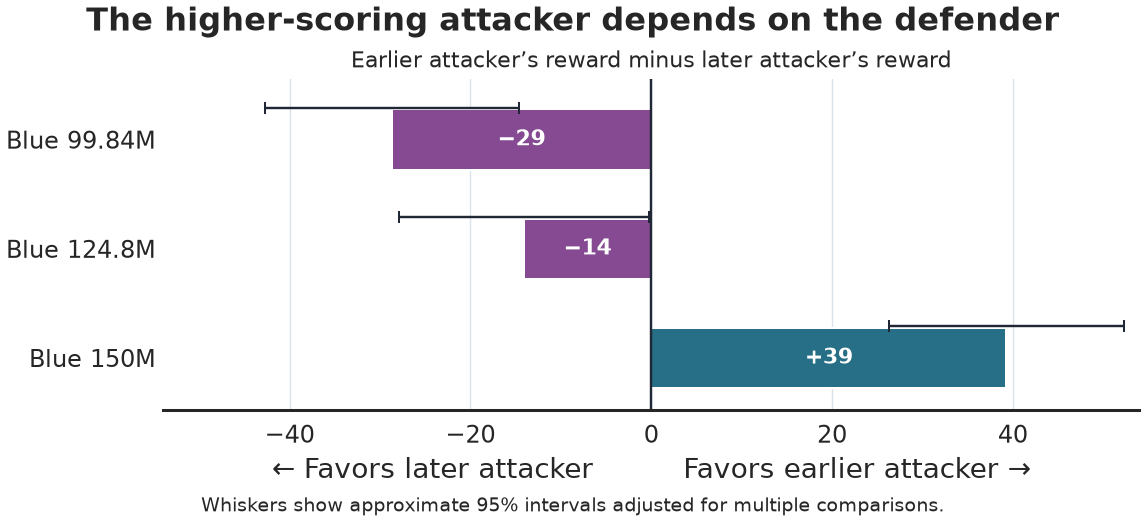
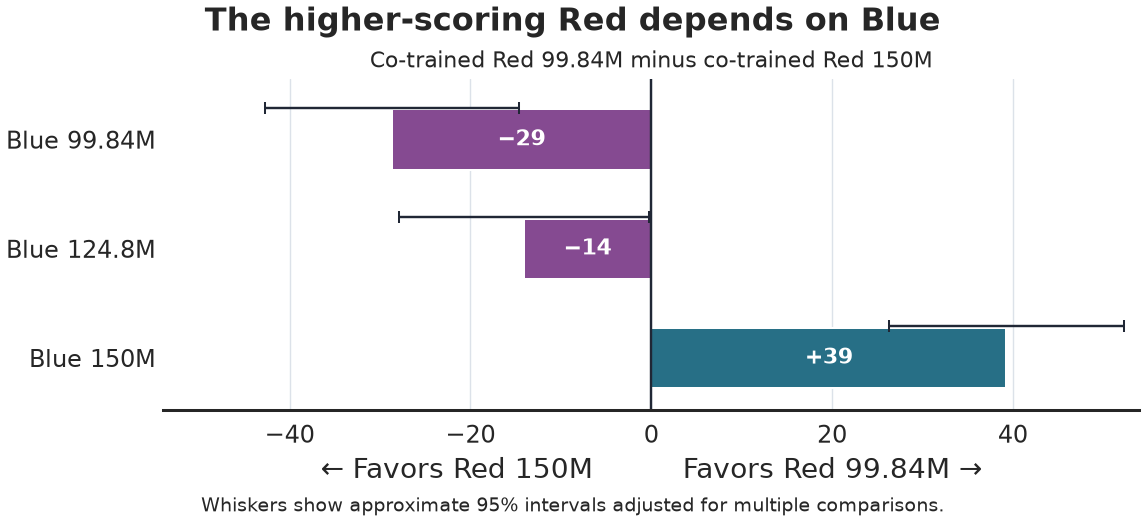
Use Red and Blue labels in the research brief

Changed region(s): [[0.0611, 0.0, 0.917, 0.1533], [0.6114, 0.8582, 0.917, 0.9195], [0.2445, 0.8582, 0.5197, 0.9195]]

diff --git a/studies/nash-co-training/plot_brief.py b/studies/nash-co-training/plot_brief.py
@@ -69,8 +69,8 @@ def fresh_red(row, original_matchup, challenger_matchup):
 
 def saved_red(rows):
     fig, ax = plt.subplots(figsize=(7.9, 3.6), layout="constrained")
-    fig.suptitle("The higher-scoring attacker depends on the defender", fontweight="bold")
-    ax.set_title("Earlier attacker’s reward minus later attacker’s reward", fontsize=11)
+    fig.suptitle("The higher-scoring Red depends on Blue", fontweight="bold")
+    ax.set_title("Co-trained Red 99.84M minus co-trained Red 150M", fontsize=11)
     labels = ("Blue 99.84M", "Blue 124.8M", "Blue 150M")
     for position, row in enumerate(rows):
         mean, low, high = interval(row)
@@ -90,7 +90,7 @@ def saved_red(rows):
         )
     return_axis(ax)
     ax.set_yticks(range(len(labels)), labels)
-    ax.set(xlim=(-54, 54), ylim=(2.48, -0.55), xlabel="← Favors later attacker          Favors earlier attacker →")
+    ax.set(xlim=(-54, 54), ylim=(2.48, -0.55), xlabel="← Favors Red 150M          Favors Red 99.84M →")
     fig.supxlabel("Whiskers show approximate 95% intervals adjusted for multiple comparisons.", fontsize=9.5)
     return fig
 

diff --git a/studies/nash-co-training/brief.md b/studies/nash-co-training/brief.md
@@ -1,56 +1,56 @@
-# How well do co-trained cyber policies hold up against new opponents?
+# How do challenger Red and co-trained Red compare?
 
-**Can a new attacker still improve against Jaxborg’s co-trained defender?** Yes. A new attacker scored about **530 more reward points per simulated episode** against the same defender, and the better of two saved attackers changed when we switched defenders.
+**Can challenger Red outscore co-trained Red against the same Blue?** Against frozen Blue at 150M, challenger Red scored about **530 more points per episode**. In a separate test, which co-trained Red scored higher depended on the Blue checkpoint.
 
 ## Questions
 
-1. Can an attacker trained against a fixed defender outscore that defender’s original attacker?
-2. Does the stronger saved attacker stay stronger when it faces a different defender?
+1. Can challenger Red outscore co-trained Red against the same frozen Blue?
+2. Does the same co-trained Red score higher across different Blue checkpoints?
 
 ## Method
 
-- **Train a new attacker.** Freeze Blue at the 150M checkpoint and train challenger Reds from scratch against it. Each challenger completed **9,984,000 simulation steps** of a planned 10 million. Select an attacker from saved and newly trained candidates on separate episodes, then compare it with the original Red on 4,096 matched test episodes.
+- **Train challenger Reds.** Freeze co-trained Blue at the 150M checkpoint and train challenger Reds from scratch against it. Each challenger completed **9,984,000 simulation steps** of a planned 10 million. Select a Red from saved co-trained and freshly trained candidates on separate episodes. Compare the selected challenger Red with co-trained Red at 150M on 4,096 matched test episodes.
 - **Swap saved opponents.** Take both Red and Blue from the same three checkpoints in one co-training run, at 99.84M, 124.8M, and 150M simulation steps. Play all nine Red–Blue pairings and run each pairing through the same 4,096 simulation setups.
 
 ## Results
 
-### A new attacker scored 530 points more against the same defender
+### Challenger Red scored 530 points more against frozen Blue
 
-Both attackers faced Blue frozen at the 150M checkpoint. Its original co-trained Red averaged **2,531** points per episode. The challenger Red, trained from scratch against that frozen Blue, averaged **3,061**.
+Both Reds faced Blue frozen at the 150M checkpoint. Co-trained Red from that checkpoint averaged **2,531** points per episode. Challenger Red averaged **3,061**.
 
 ![Against frozen Blue at 150M, the co-trained Red scored 2,531 points per episode and the challenger Red trained against that Blue scored 3,061.](brief-figures/fresh-red-gain.png)
 
-### The better saved attacker changed with the defender
+### Which co-trained Red scored higher depended on Blue
 
-We compared the same two saved attackers against each defender. The earlier attacker scored lower against the first two defenders and higher against the final defender.
+We compared co-trained Red at 99.84M and 150M against each of the three saved Blues. Red 99.84M scored lower against the first two Blue checkpoints and higher against Blue 150M.
 
-![The earlier attacker lost by about 29 and 14 points against the first two defenders and won by about 39 points against the final defender.](brief-figures/saved-red-ranking.png)
+![Red 99.84M scored about 29 and 14 points less than Red 150M against the first two Blues, and about 39 points more against Blue 150M.](brief-figures/saved-red-ranking.png)
 
 ### Full nine-matchup matrix
 
-Each row holds one Blue checkpoint fixed. Each column uses one saved Red checkpoint. The colored cells show average **Blue** reward. Higher values favor Blue. The right panel shows the same Red comparison as the simpler bar chart above.
+Rows show co-trained Blue checkpoints. Columns show co-trained Red checkpoints. The colored cells show average **Blue** reward. Higher values favor Blue. The right panel shows the same Red comparison as the simpler bar chart above.
 
 ![The complete three-by-three CPU payoff matrix and paired Red comparison across three fixed Blue opponents.](brief-figures/cpu-saved-policy-crossplay.png)
 
 ## Discussion
 
-The final co-trained pair still gave Red room to improve by switching strategies. The saved matchups show why a score against one opponent tells us about that matchup. Robustness across opponents takes a wider test.
+At 150M, Red could improve by switching policies while Blue stayed fixed. The cross-play results show why judging a Red policy across opponents takes more than one Blue checkpoint.
 
 The 150M study also tested earlier saved Blues against frozen Red150. Training a fresh Blue challenger against Red150 remains open for this pair.
 
-These results come from one co-training run and one simulated network. How much more an attacker could gain, and whether the pattern holds across other runs and networks, remain open questions.
+These results come from one co-training run and one simulated network. How much more a challenger Red could gain, and whether the pattern holds across other runs and networks, remain open questions.
 
 <details>
 <summary>Exact values and study evidence</summary>
 
 | Comparison | Red reward difference | Approximate simultaneous 95% interval |
 | --- | ---: | ---: |
-| Adapted minus original Red against final Blue | +530.16 | [517.54, 542.79] |
-| Earlier minus later Red against Blue at 99.84M steps | −28.70 | [−42.75, −14.64] |
-| Earlier minus later Red against Blue at 124.8M steps | −14.09 | [−27.89, −0.29] |
-| Earlier minus later Red against Blue at 150M steps | +39.29 | [26.28, 52.30] |
+| Challenger minus co-trained Red against frozen Blue 150M | +530.16 | [517.54, 542.79] |
+| Red 99.84M minus Red 150M against Blue at 99.84M steps | −28.70 | [−42.75, −14.64] |
+| Red 99.84M minus Red 150M against Blue at 124.8M steps | −14.09 | [−27.89, −0.29] |
+| Red 99.84M minus Red 150M against Blue at 150M steps | +39.29 | [26.28, 52.30] |
 
-The intervals describe variation across matched test episodes for these policies. The adapted attacker comparison uses its four-contrast correction family. The saved-policy comparisons use their separate 24-contrast family.
+The intervals describe variation across matched test episodes for these policies. The challenger Red comparison uses its four-contrast correction family. The saved-policy comparisons use their separate 24-contrast family.
 
 See the [study](README.md) and [replay instructions](reproduce.md) for the full design, saved outcomes, and plot commands.
 
